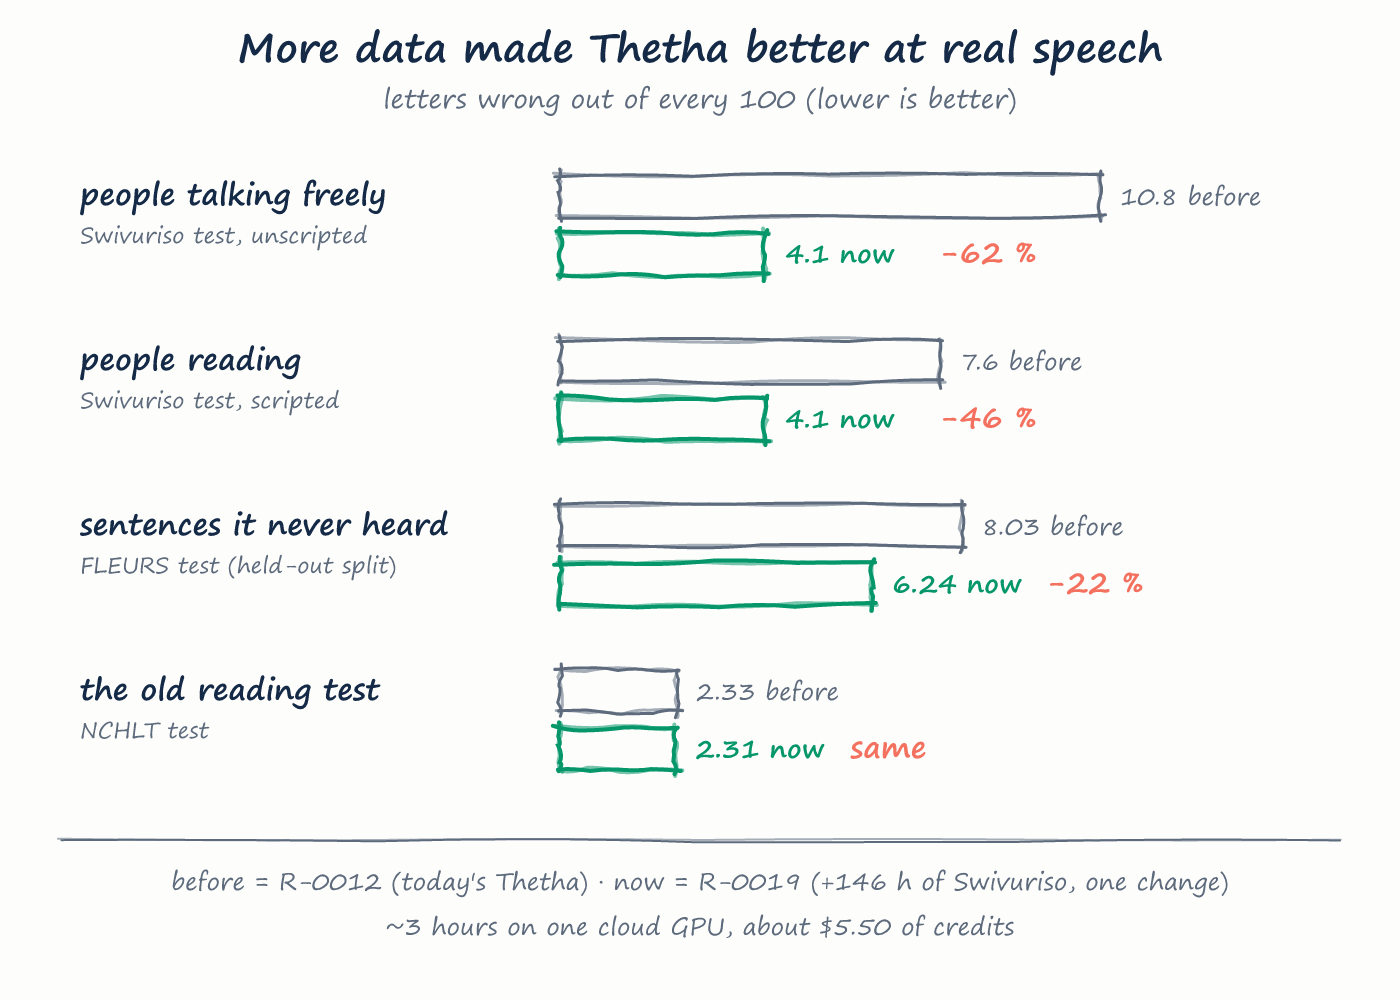
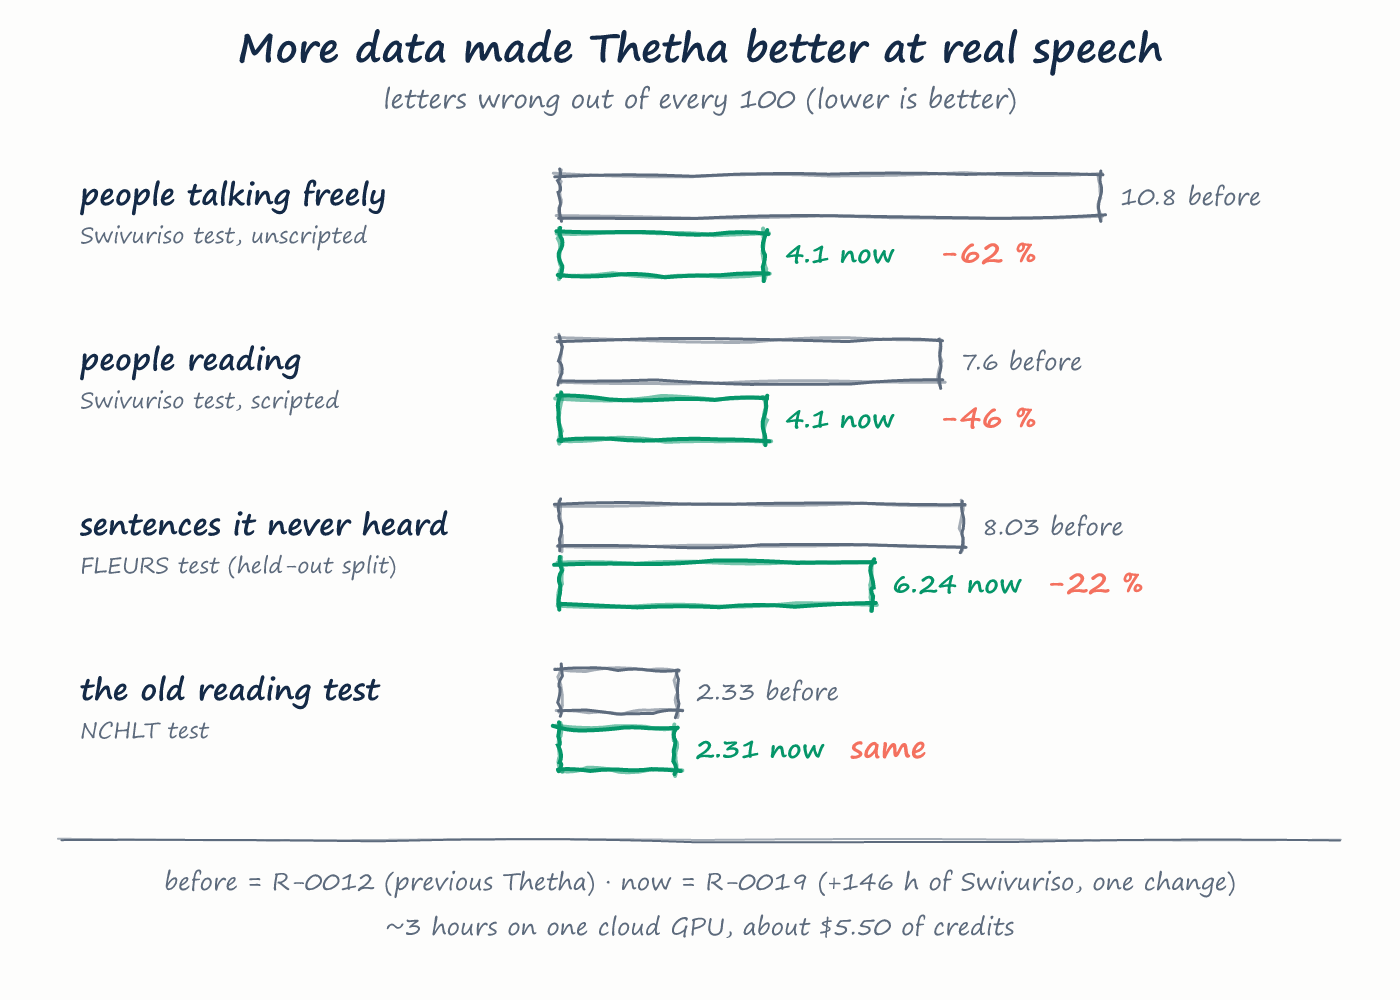
r0019-results drawing: 'previous Thetha' (for sharing)

Changed region(s): [[0.1229, 0.868, 0.8907, 0.899]]

diff --git a/docs/make_r0019_results.js b/docs/make_r0019_results.js
@@ -25,6 +25,6 @@ rows.forEach(([name, sub, before, after, change], i) => {
 });
 
 sk.line(60, 840, 1340, 840, { color: MUTED, w: 2 });
-sk.text(700, 890, "before = R-0012 (today's Thetha) · now = R-0019 (+146 h of Swivuriso, one change)", { size: 24, color: MUTED });
+sk.text(700, 890, "before = R-0012 (previous Thetha) · now = R-0019 (+146 h of Swivuriso, one change)", { size: 24, color: MUTED });
 sk.text(700, 935, "~3 hours on one cloud GPU, about $5.50 of credits", { size: 24, color: MUTED });
 render(sk, "C:/Users/ntlak/Downloads/isiXhosa Speech AI/docs/r0019-results.png");
